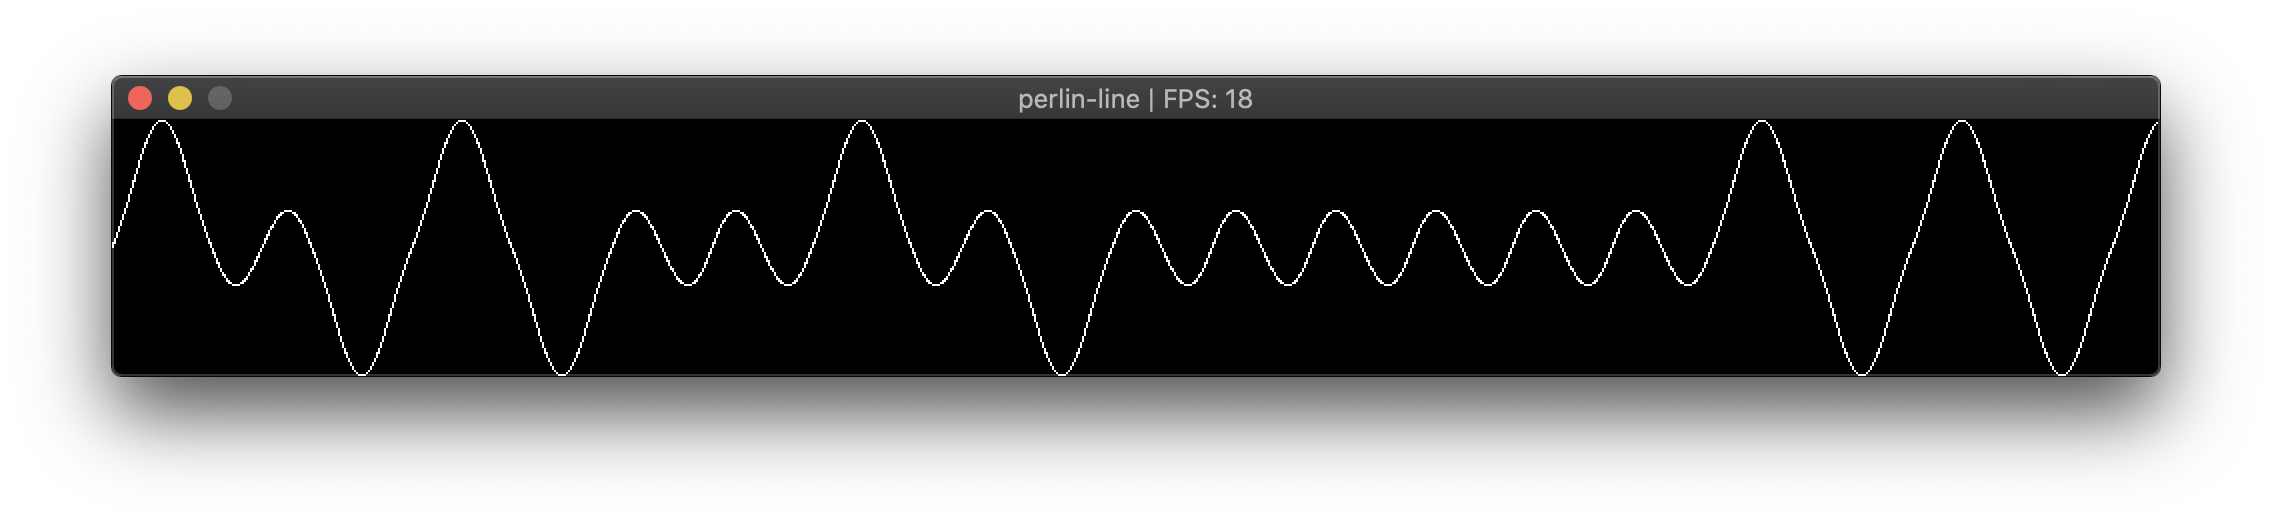
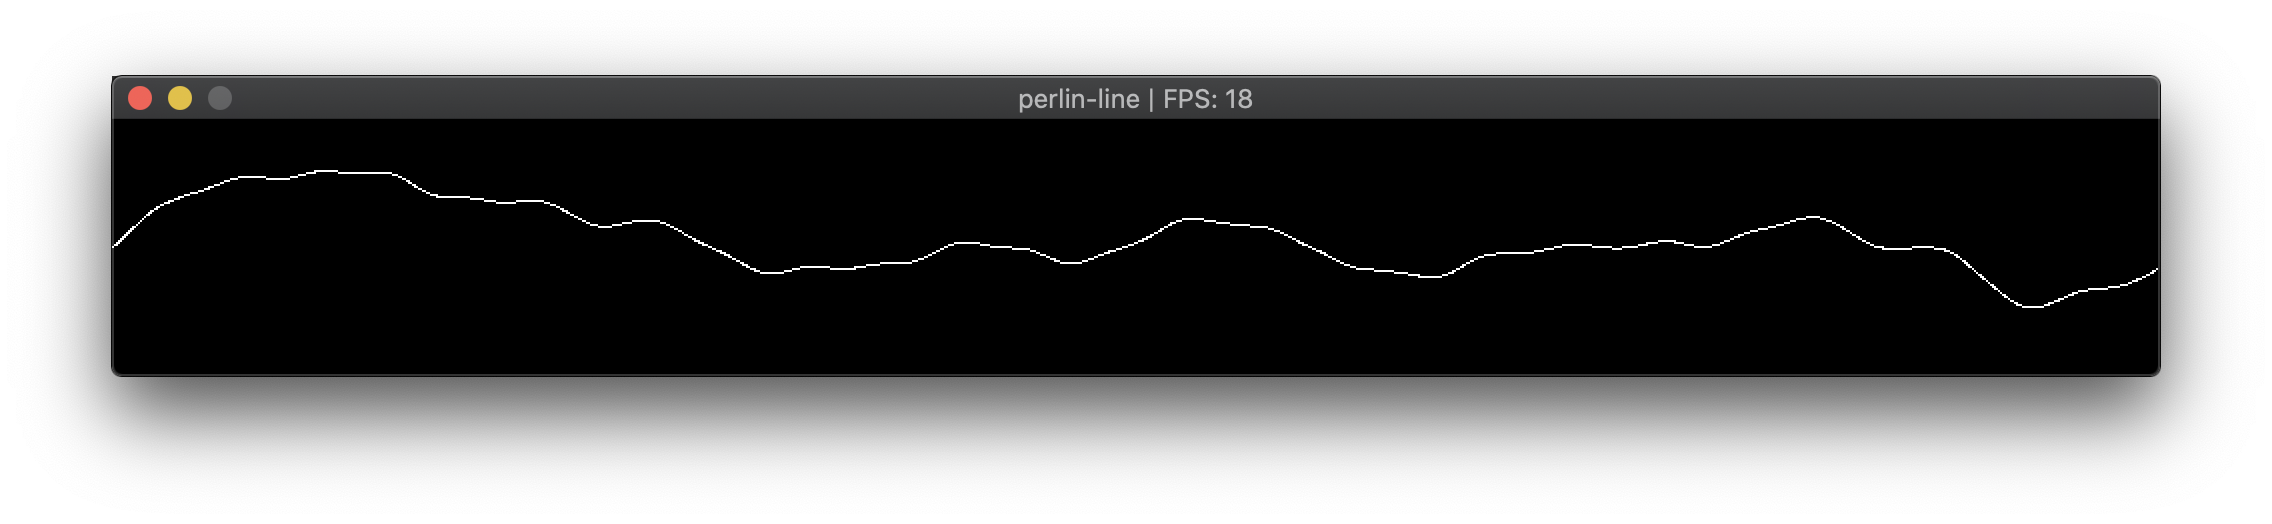
make perlin example a bit more instresting

diff --git a/perlin.go b/perlin.go
@@ -50,13 +50,15 @@ func doPerlin(p float64) float64 {
 
 func Perlin(cfg *pixelgl.WindowConfig, imd *imdraw.IMDraw) {
 	cfg.Title = "perlin-line"
-	frequency := 1.0 / 50.0
 
 	points := make([]pixel.Vec, WINDOW_WIDTH)
 	for x := 0.; x < float64(len(points)); x+= 1 {
 		points[int(x)] = pixel.Vec {
 			X: x,
-			Y: WINDOW_HEIGHT/2 + (doPerlin(x * frequency) * float64(WINDOW_HEIGHT)),
+			Y: WINDOW_HEIGHT/2 + (doPerlin(x * (1.0/300.0)) * WINDOW_HEIGHT/2) +
+				doPerlin(x * (1.0/150.0)) * 0.5 * WINDOW_HEIGHT/2 +
+				doPerlin(x * (1.0/75.0)) * 0.25 * WINDOW_HEIGHT/2 +
+				doPerlin(x * (1.0/37.5)) * 0.125 * WINDOW_HEIGHT/2,
 		}
 	}
 	imd.Push(points...)
